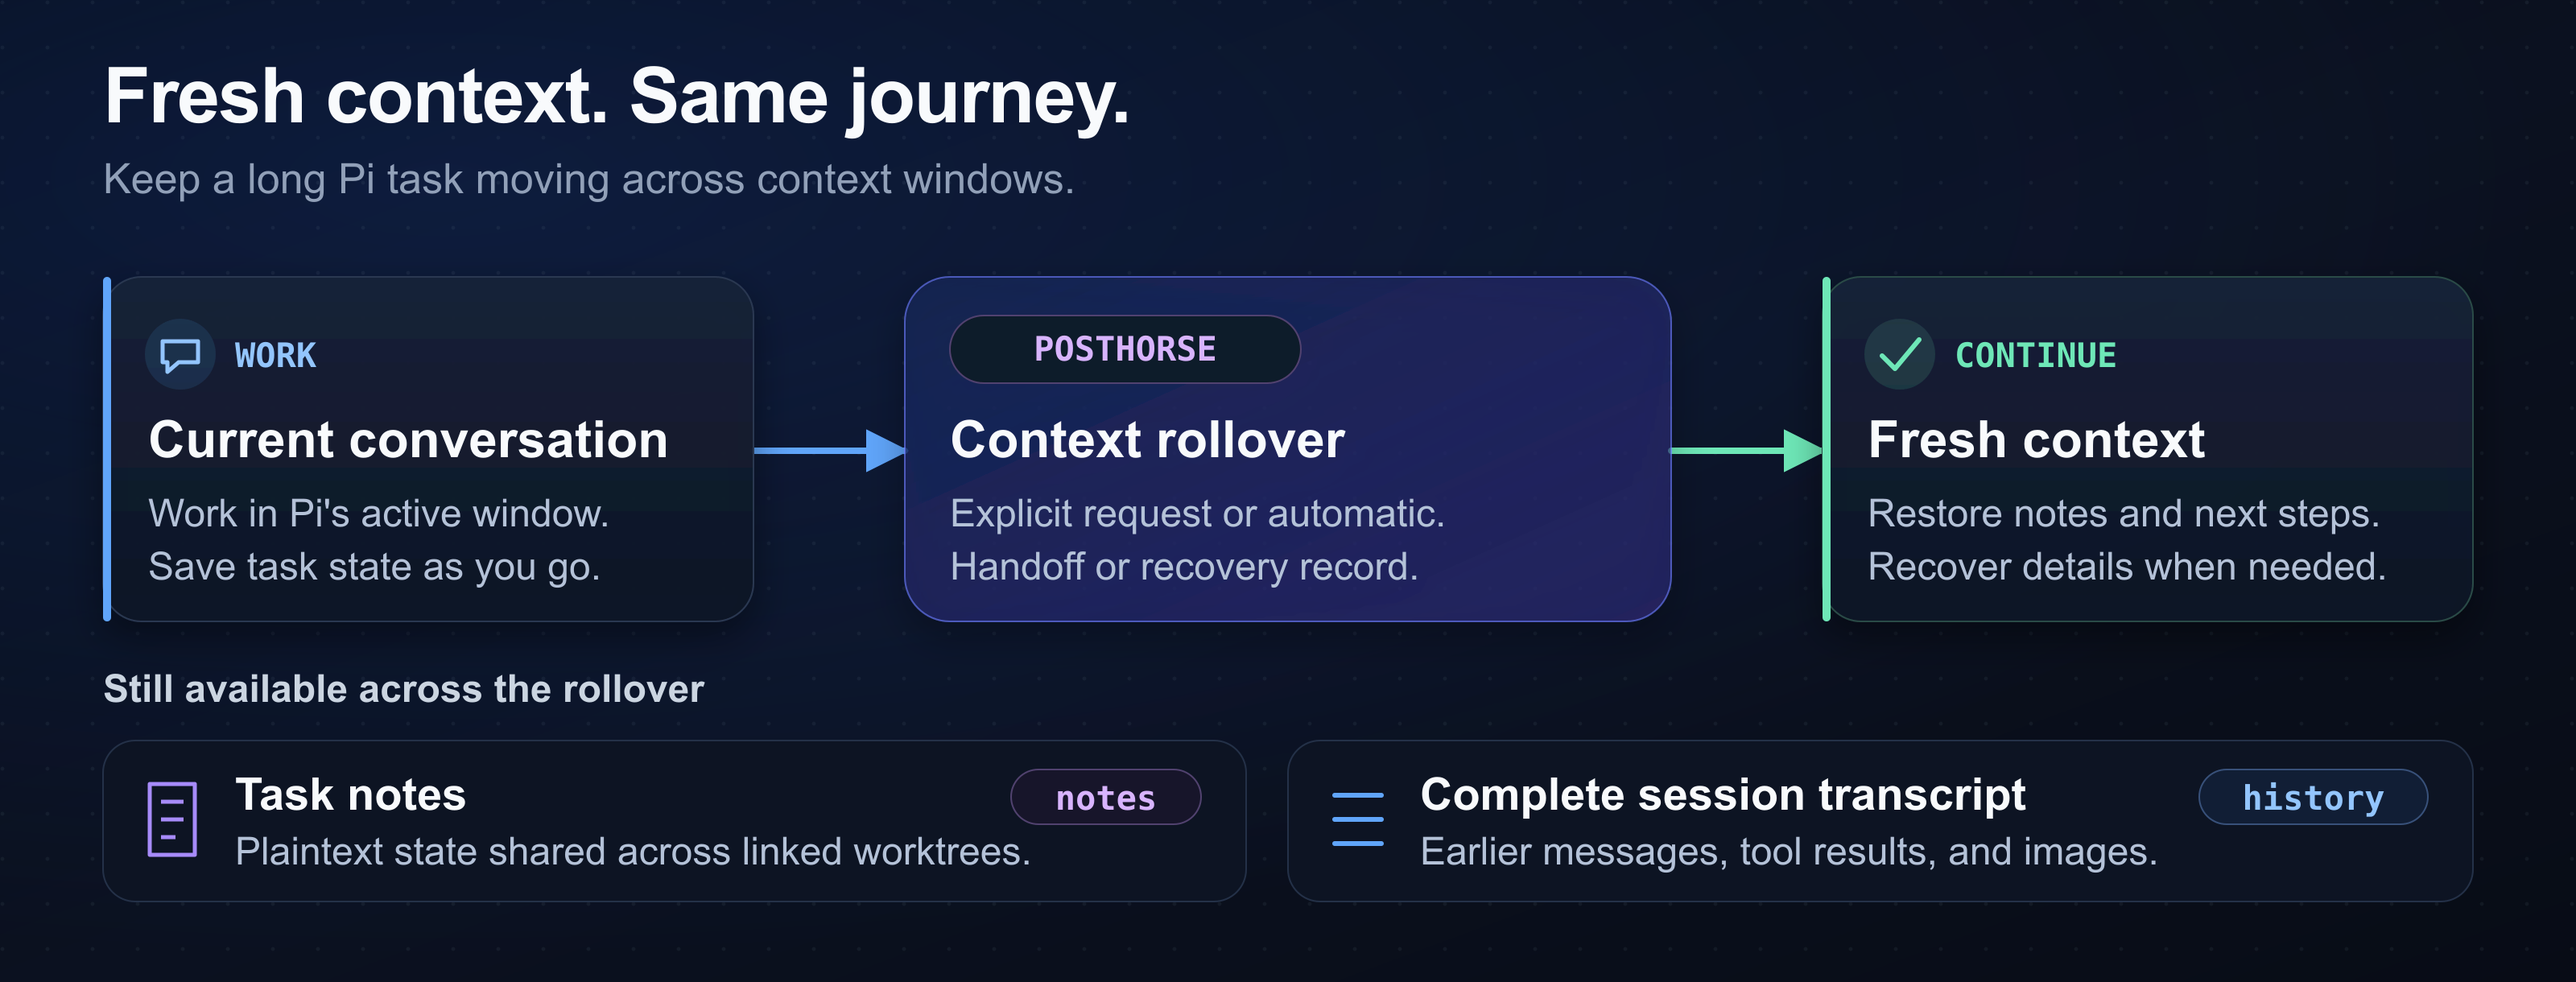
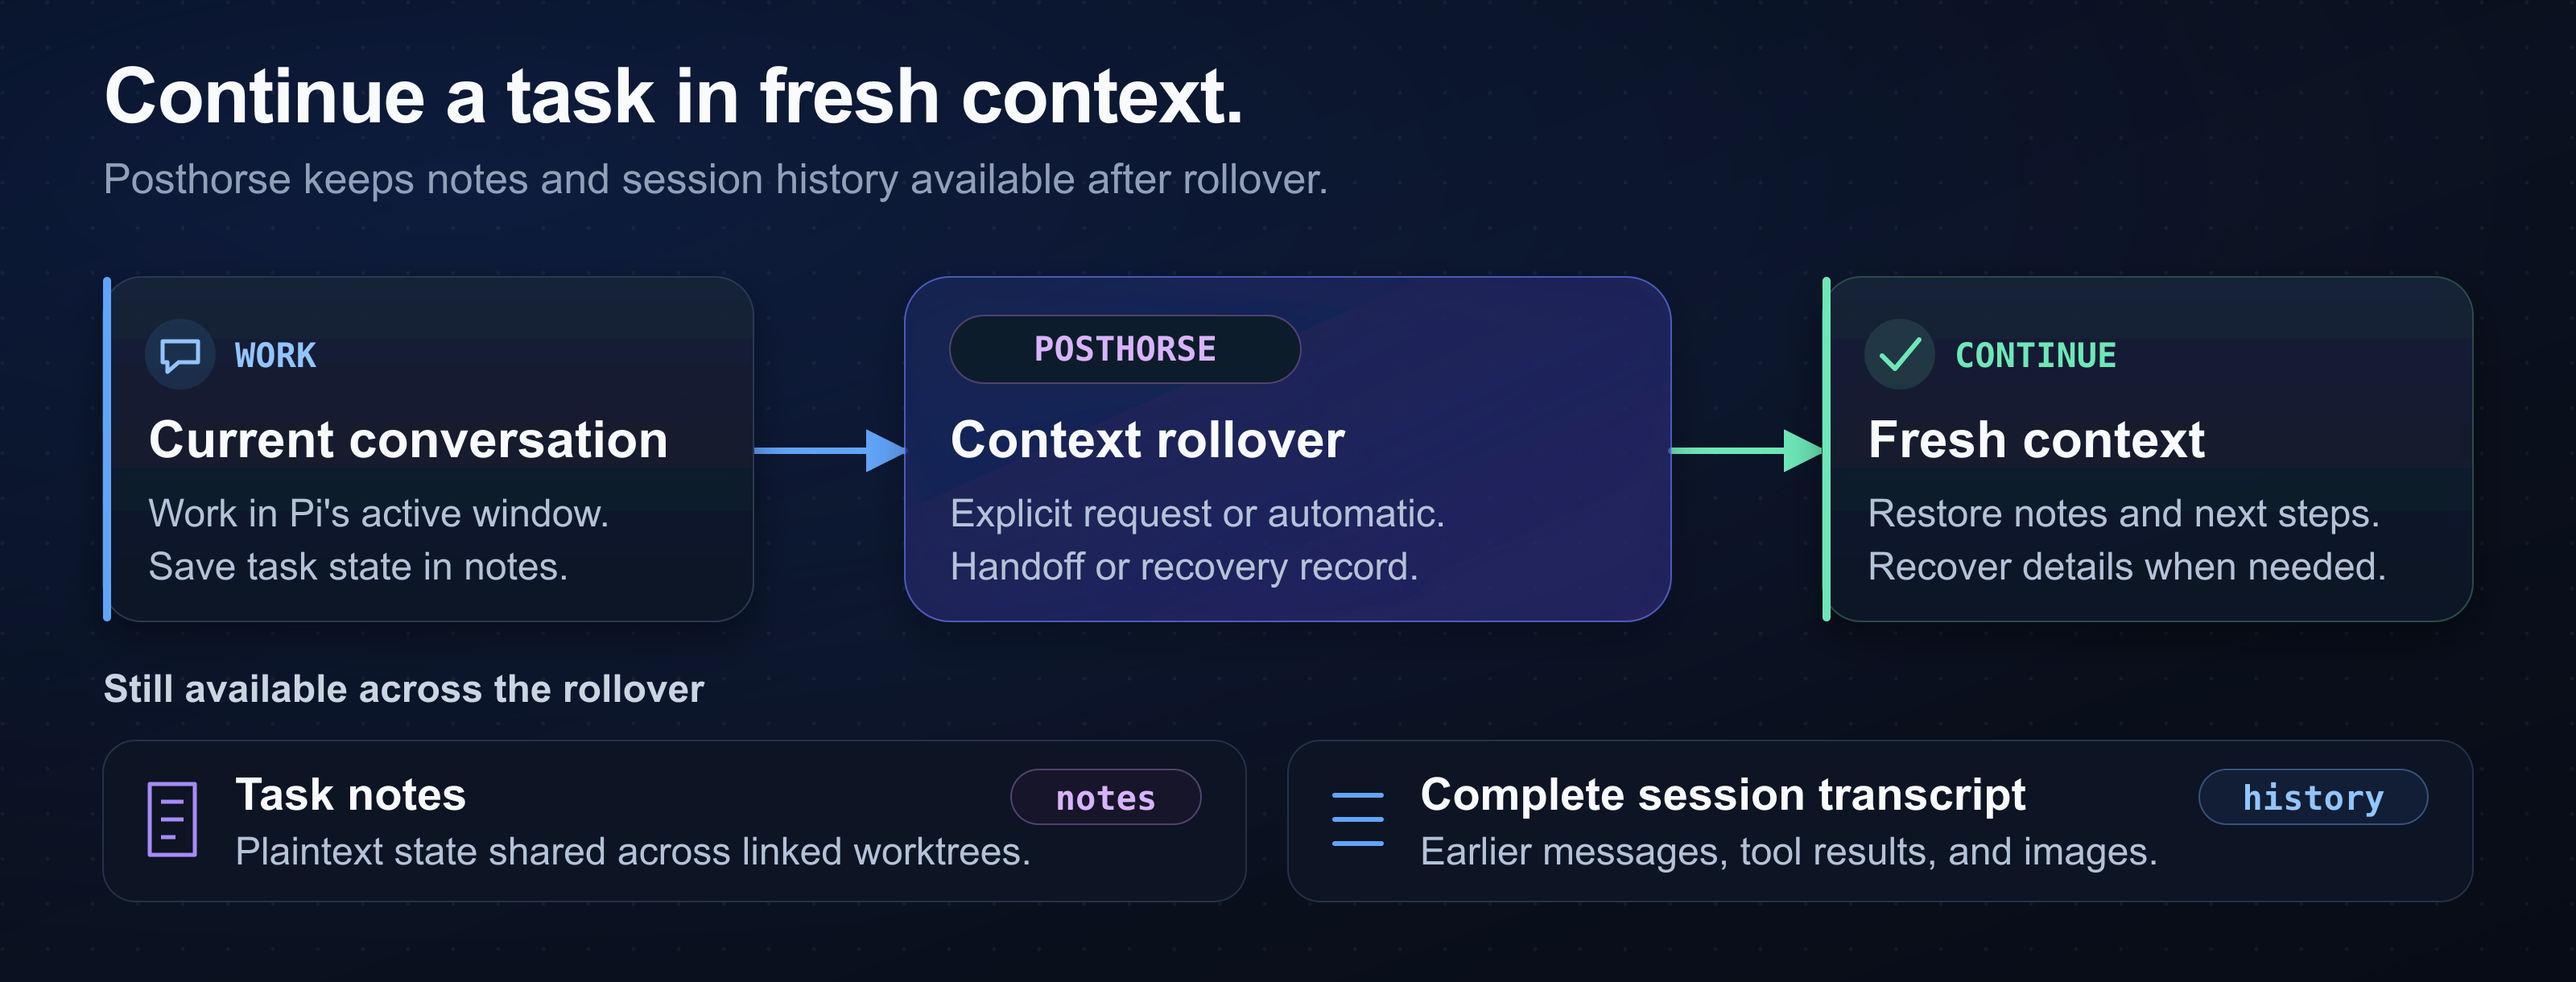
docs: simplify README language and instructions

Changed region(s): [[0.0312, 0.0623, 0.5, 0.218], [0.0312, 0.1557, 0.2188, 0.218], [0.1562, 0.5607, 0.25, 0.5918]]

diff --git a/README.md b/README.md
@@ -1,87 +1,68 @@
 # Posthorse
 
-Posthorse gives long [Pi](https://github.com/earendil-works/pi) coding sessions a fresh context window while keeping earlier conversation recoverable. Use it to continue larger tasks with handoffs, durable notes, and searchable history, without a model-generated summary at each rollover.
+Posthorse starts fresh context windows for long [Pi](https://github.com/earendil-works/pi) tasks and keeps earlier conversation recoverable. Each rollover uses a handoff or recovery record without a model-generated summary.
 
-![A Pi conversation rolls into a fresh context window, while task notes and the complete session transcript remain recoverable.](.github/readme/context-rollover.png)
+![A Pi conversation rolls into a fresh context window. Task notes and the complete session transcript remain available.](.github/readme/context-rollover.png)
 
-_Fresh context, same journey: handoffs carry the next step; notes and history keep the rest within reach._
+_Task notes and session history remain available after rollover._
 
 ## Install and start
 
-Requires **Node 24.12.0 or later** and **Pi 1.0.0 or later**, on official Pi or the [maintained fork](https://github.com/fitchmultz/pi). Update an older host before installing.
+Use Node 24.12.0 or later and Pi 1.0.0 or later. Posthorse supports official Pi and [fitchmultz/pi](https://github.com/fitchmultz/pi).
+
+Update an older Pi installation before you install Posthorse. Run these commands:
 
 ```bash
 pi install npm:pi-posthorse
 pi
 ```
 
-Restart an already-running Pi session after installing. For a single run without adding the package to your settings:
+Restart Pi after installation or an update. To try Posthorse for one session, run `pi -e npm:pi-posthorse`.
 
-```bash
-pi -e npm:pi-posthorse
-```
+Give Pi your task. For example:
 
-Start your task normally. Posthorse gives the model context guidance and adds four tools for managing longer sessions. See [how rollover works](#how-it-works) or the [tool examples](#tools) below.
+> Save task state in a note. Start a fresh context window with the next steps.
 
-## How it works
+## How rollover works
 
-1. **Work in your current window.** The model gets guidance about Pi's context capacity and rollover settings.
-2. **Save the next step.** With compaction enabled, one best-effort checkpoint reminder may ask the model to update its task note and request a fresh window. Large turns can reach rollover before that reminder.
-3. **Continue in fresh context.** An explicit request carries your handoff. Automatic rollover builds a bounded recovery record from session inputs and tool evidence. Earlier conversation leaves active model context and remains in Pi's complete session history.
+Posthorse can remind the model to save task state before rollover. Large turns can reach rollover before this reminder. The reminder does not wake an agent after its final answer.
 
-Automatic recovery records preserve inputs and evidence. The fresh model still needs to restore task notes and verify live state before continuing. A reminder never wakes a finished agent or replaces its final answer.
+Automatic rollover creates a recovery record from session inputs and tool results. The model must restore notes and check live state before it continues. Manual `/compact` uses Pi's normal summarization.
 
-[Detailed rollover and recovery behavior →](docs/reference.md#how-it-works)
+See [rollover and recovery details](docs/reference.md#how-it-works).
 
 ## Tools
 
-These are model-callable tools. You can ask Pi to use them in plain language, for example:
+These tools are available to the model:
 
-> Save where we are in a task note, then start a fresh context window with the next steps.
+| Tool                        | Use                                                                                                                                          |
+| --------------------------- | -------------------------------------------------------------------------------------------------------------------------------------------- |
+| `new_context({ handoff? })` | Request a fresh window after every foreground tool succeeds. Aborted turns and failed tools prevent the reset.                               |
+| `get_context_remaining()`   | Estimate tokens left until rollover and the configured context limit. Usage can be unknown before a model response.                          |
+| `notes({ op, ... })`        | List, read, search, write, or append task notes.                                                                                             |
+| `history({ op, ... })`      | Search earlier conversation and read entries, including images. `all: true` includes this project's other sessions and nested subagent runs. |
 
-| Tool                        | What it does                                                                                                                                           |
-| --------------------------- | ------------------------------------------------------------------------------------------------------------------------------------------------------ |
-| `new_context({ handoff? })` | Requests a fresh window after the current foreground tool batch succeeds.                                                                              |
-| `get_context_remaining()`   | Estimates tokens left until rollover and the configured context limit. Usage may be unknown before a model response.                                   |
-| `notes({ op, ... })`        | Lists, reads, searches, writes, or appends plaintext task notes shared across linked Git worktrees.                                                    |
-| `history({ op, ... })`      | Searches earlier conversation and reads entries, including stored images. `all: true` includes this project's other sessions and nested subagent runs. |
+Expand a tool card with Ctrl+O. In fullscreen mode, click a tool card to expand it. A `new_context` card shows a request. Pi's `Compacted from … tokens` card confirms the rollover.
 
-For example, the model can create a note and search earlier decisions:
+See [tool examples and paging details](docs/reference.md#tools).
 
-```js
-notes({
-  op: "write",
-  path: "task.md",
-  content: "Goal: fix sign-in. Next: run the regression test.",
-});
-history({ op: "search", query: "sign-in", all: true });
-```
+## Settings and limits
 
-Read a history hit using the exact entry ID returned by search. Notes and history are paged; follow the returned continuation fields to retrieve more.
+Posthorse uses Pi's effective `compaction` settings. It has no separate settings.
 
-Tool cards expand with **Ctrl+O** by default, or by clicking in fullscreen mode. A `new_context` card shows a request; Pi's **Compacted from … tokens** card confirms a committed rollover.
+| Pi setting                 | Effect                                                                                                                                                             |
+| -------------------------- | ------------------------------------------------------------------------------------------------------------------------------------------------------------------ |
+| `compaction.enabled`       | Set to `false` to disable reminders and automatic rollover. `new_context` remains available.                                                                       |
+| `compaction.reserveTokens` | Automatic Posthorse rollover needs at least 10,000 tokens after this reserve. Smaller budgets use Pi's own compaction. Lower the reserve or choose a larger model. |
 
-[Full tool and paging reference →](docs/reference.md#tools)
+Two Posthorse copies can register the same tools and compete for rollover. Keep one copy loaded. Check installed sources with `pi list`.
 
-## Settings
+Multiple compaction-policy extensions can make rollover depend on load order. Enable only one.
 
-Posthorse follows Pi's effective `compaction` settings, including per-model overrides and project trust. You do not need separate Posthorse settings.
+Oversized input and some overflow or truncated responses can reach the provider before automatic recovery. Save task state in notes. Background work outside the foreground tool batch continues across rollover.
 
-- Disable `compaction.enabled` to turn off checkpoint reminders and automatic rollover. `new_context` remains available.
-- Automatic Posthorse rollover needs at least **10,000 usable tokens** after `compaction.reserveTokens`. Smaller budgets use Pi's own compaction; lower the reserve or choose a larger-context model.
-- Keep one Posthorse copy loaded and only one automatic compaction-policy extension enabled. Use `pi list` to check installed sources.
-
-Handoffs and returned pages have model-aware size limits. Save fuller state in notes when a handoff is too large.
-
-[Settings, limits, and extension ordering →](docs/reference.md#settings)
-
-## Official Pi and the fork
-
-Both hosts get the same tools, guidance, reminders, and recovery records. Posthorse uses public compaction APIs and does not call a summary model for its rollover. Manual **`/compact`** keeps Pi's normal summarization.
-
-Failed sibling tools or an aborted turn prevent an explicit reset. Background work owned outside the foreground batch continues across it. Automatic recovery depends on Pi reaching its compaction hook; oversized initial input and some overflow or truncated responses can reach the provider before recovery.
-
-Legacy fork window markers remain readable in history, but opening those old sessions on official Pi can reintroduce earlier context. Check the [host and legacy-session details](docs/reference.md#official-pi-and-the-fork) before migrating sessions.
+See [size limits and extension order](docs/reference.md#settings).
+Check the [legacy-session details](docs/reference.md#official-pi-and-the-fork) before you move old fork sessions to official Pi.
 
 ## Update or remove
 
@@ -90,22 +71,22 @@ pi update npm:pi-posthorse
 pi remove npm:pi-posthorse
 ```
 
-Restart Pi after an update. Removing Posthorse leaves your notes and Pi session history in place. For Git installs, pinned versions, and duplicate-source cleanup, see [installation reference](docs/reference.md#install).
+Removal leaves notes and Pi session history in place. See [Git sources and pinned versions](docs/reference.md#install) for other installation options.
 
 ## Data and privacy
 
-- Posthorse makes no network requests itself.
-- Notes are plaintext under `.pi/notes/` and survive package removal. In conventional Git layouts they live at the main checkout; linked worktrees share them. Add `.pi/notes/` to `.gitignore` if they should stay private.
-- History can return user messages, assistant text and thinking, tool arguments and results, handoffs, errors, and images. Returned content enters the context of your currently selected model and provider.
-- `history` with `all: true` searches project-matching session files and their nested subagent sessions in the active Pi session directory. Unrelated projects are excluded. Direct shell entries Pi marked `excludeFromContext` return a placeholder.
+Posthorse makes no network requests. Notes are plaintext files under `.pi/notes/`; linked Git worktrees share them. Add `.pi/notes/` to `.gitignore` if the notes must stay private.
 
-For cached-token cost diagnosis and a safe comparison with stock compaction, see the [cached-token investigation](ARTIFACTS/investigation-report.md). It does not establish the cause of a production bill or a measured cost improvement.
+History can include user messages, assistant thinking, tool arguments, errors, and images. Content you retrieve enters the context of your selected model and provider.
 
-[Storage locations and write guarantees →](docs/reference.md#tools)
+See [storage and privacy details](docs/reference.md#data-and-privacy).
+For cost diagnosis, see the [cached-token investigation](ARTIFACTS/investigation-report.md).
+It does not establish the cause of a production bill or a measured cost improvement.
 
-## Develop
+## Development
 
-See [development and host qualification](docs/development.md) for setup, tests, and release procedures, and [code quality](docs/quality.md) for the enforced checks.
+See [development and host qualification](docs/development.md) for setup, tests, and releases.
+See [code quality](docs/quality.md) for the required checks.
 
 ## License
 

diff --git a/docs/reference.md b/docs/reference.md
@@ -62,6 +62,17 @@ The fresh-window threshold fallback builds its recovery record from the boundary
 
 ## Tools
 
+These examples show model-callable tools:
+
+```js
+notes({
+  op: "write",
+  path: "task.md",
+  content: "Goal: fix sign-in. Next: run the regression test.",
+});
+history({ op: "search", query: "sign-in", all: true });
+```
+
 - `new_context({ handoff? })`
 - `get_context_remaining()`
 - `notes({ op, ... })`: `list`, `read`, and `search` are paged; continue with the returned character `offset`. `list` shows the absolute shared notes directory, then relative note names newest first with size and modification time (UTC), and takes an optional folder `path`; `read` of a folder returns its listing. File reads show the absolute file path before the content. Offsets refer to note content or listing rows, excluding path headers. `search` covers text notes, skipping binary files (a NUL byte in the first 8,000 bytes, as Git decides), and its excerpts center on the match. It also skips files over 1 MiB and says how many it skipped. Search stops reading once the requested page is decided, so a broad query reports that more matches follow instead of a total; its pages end before offset 1,000,000. `write` replaces content (empty content clears); `append` adds one newline-terminated record.
